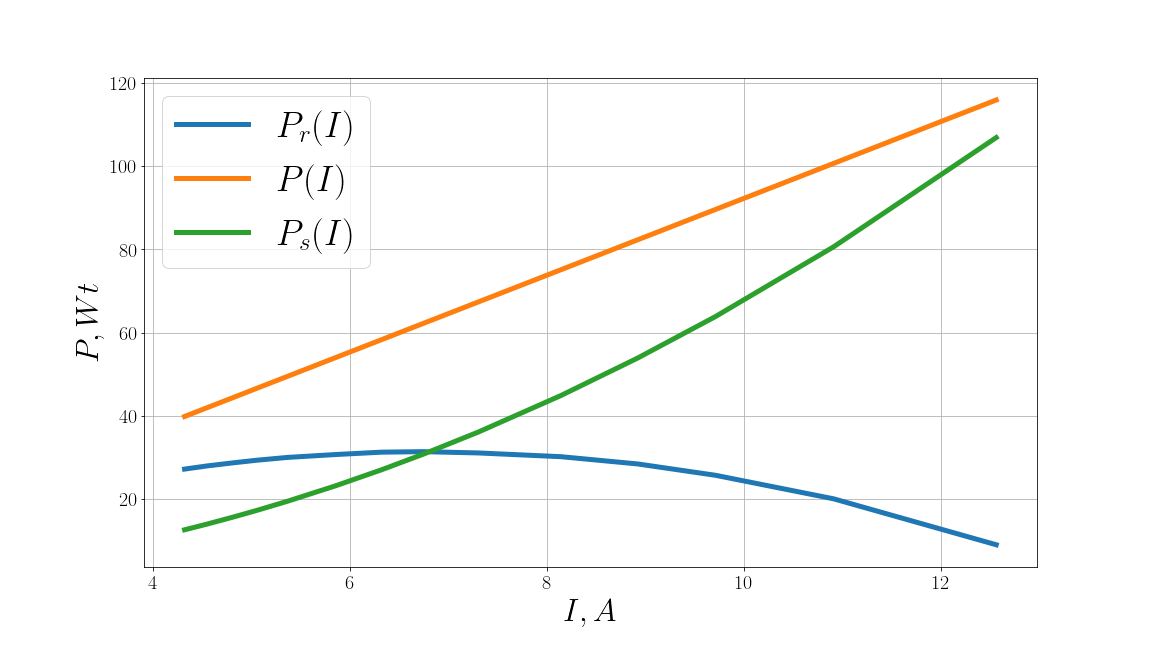
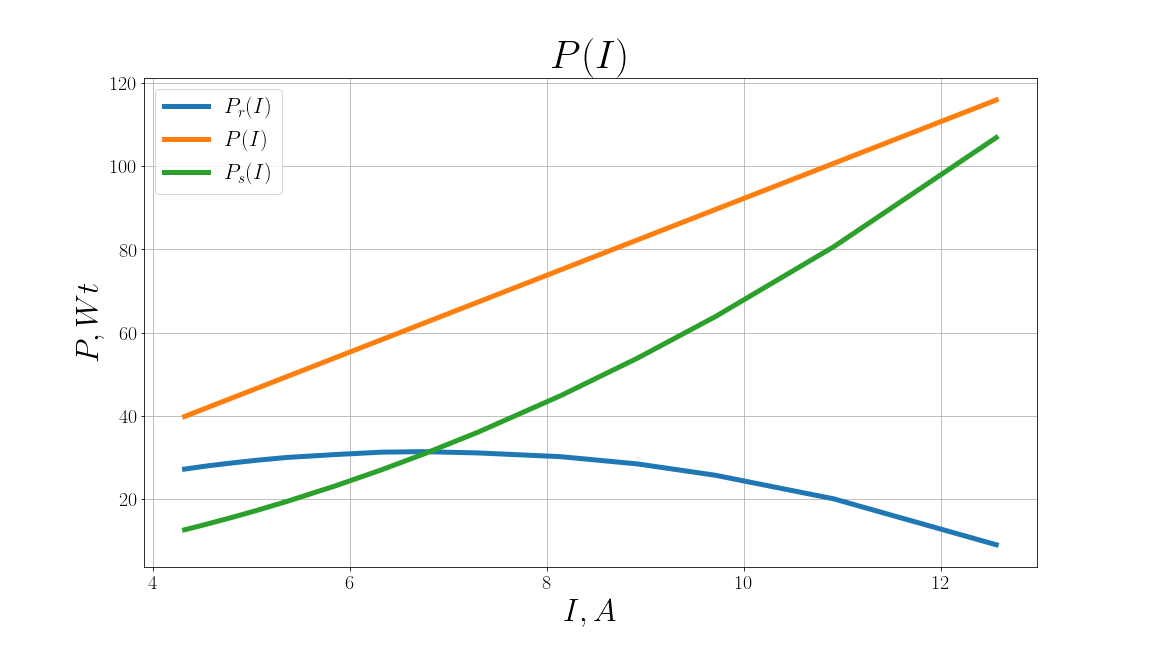
Finish report + add plot titles

diff --git a/report.md b/report.md
@@ -1,6 +1,12 @@
+---
+title: my title
+author: my name
+date: today
+---
+
 # Отчёт по лабораторной работе №3.02
 
-## Характеристики источника тока
+## "Характеристики источника тока"
 
 ### Цель работы
 
@@ -13,16 +19,68 @@
 
 * * *
 
+### Лабораторная установка и проведение измерений
+1. Измерительными приборами в данной лабораторной работе яв-
+ляются амперметр и вольтметр, содержащиеся в блоке АВ1. Ре-
+зистор переменного сопротивления $𝑅 = 0 ÷1,5 \ кОм$.
+1. В качестве источника ЭДС в лабораторной работе использует-
+ся генератор регулируемого постоянного напряжения блока ГН1 с включенным внутренним сопротивлением (пере-
+ключатель $R_{вн}$ должен быть нажат). В этом случае номиналь-
+ное значение внутреннего сопротивления генератора равняется
+$680 \ \Omega ±10 \% $.
+1. Соберите установку.
+2. Соедините гнезда (*) на лицевых панелях амперметра и ге-
+нератора между собой проводником. Среднюю пару контактов
+(обозначены стрелочкой) переменного резистора 𝑅 подключите
+к контакту «$0. . . +15 В$» генератора и к контакту «$U$» вольтметра.
+1. Нижнюю пару контактов переменного резистора R подключите
+к контакту «$I$» амперметра, и к контакту (*) вольтметра.
+1. Перед включением установки внимательно проверьте правиль-
+ность и надежность всех соединений.
+1. На блоке ГН1 регулятор генератора постоянного напряжения
+«$0. . . +15 В$» установите в среднее положение (пятое-шестое де-
+ление шкалы). Кнопочными переключателями блока амперметра-
+вольтметра АВ1 «$J$» и «$I$» установите диапазоны измерений ам-
+перметра: «$20 мА$» и вольтметра: «$20 В$».
+1. Изменяя переменное сопротивление $𝑅$ (от $100 \ \Omega$ до $1500 \ \Omega$)
+с шагом около 100 Ом), проведите измерение зависимости напря-
+жения от силы тока $𝑈 = 𝑈(𝐼)$ и заполните первые две колонки
+Таблицы 1 (см. Приложение).
+1. После проведения измерений выключите генератор и блок АВ1.
+
+* * *
+
 
 ## Обработка измерений
 
 ![График зависимости $U(I)$](https://raw.githubusercontent.com/currantino/physics-3.02/master/plots/U(I).png)
-- С помощью МНК были найдены параметры зависимости $U(I) = -0.073 I + 9.225$, где электродвижущая сила $\mathscr{E}=9.225 \ В$, а внутреннее сопротивление источника $r=|-0.073| \ \Omega =0.073 \ \Omega$
-- Использую результаты измерений напряжения $U$ и силы тока $I$ и вычисленные выше значения $r, \mathscr{E}$ были вычислены значения мощностей:
+- С помощью МНК были найдены параметры зависимости $U(I) = -0.677 I + 9.225$, где электродвижущая сила $\mathscr{E}=9.225 \ В$, а внутреннее сопротивление источника $r=|-0.677| \ \Omega =0.677 \ \Omega$
+- Используя результаты измерений напряжения $U$ и силы тока $I$ и вычисленные выше значения $r, \mathscr{E}$ были вычислены [значения мощностей](#итоговая-таблица):
     - Полезной: $P_r=UI$;
     - Полной: $P=\mathscr{E}I$;
     - Потерь: $P_s=I^2r$.
-  
+
+По вычисленным значениям я построил следующие графики:
+
+![График зависимости $P(I)$](https://raw.githubusercontent.com/currantino/physics-3.02/master/plots/P(I).png)
+
+На графике видно, что полезная мощность достигает максимума $P_{R_{max}}=31.408 \ Вт$ при силе тока $I^*_1=6.740 \ A$.
+
+Подставим в формулу $P_R=I^2R$ значения $P_{R_{max}}$ и $I^*_1$, найдем сопротивление $R$, соответствующее режиму согласования нагрузки и источника: $R=\dfrac{P_{R_{max}}}{I^{*^{2}}_1} = 0.691 \ \Omega$, которое отличается от найденного выше $r=0.691 \ \Omega$ на $|0.677 - 0.691| \ \Omega = 0.14 \ \Omega$
+
+По формуле $\eta(I)=\dfrac{P_r(I)}{P(I)}$ найдем КПД и на основе полученных значений построим график  $\eta(I)$:
+![График зависимости $\eta(I)$](https://raw.githubusercontent.com/currantino/physics-3.02/master/plots/eta(I).png)
+
+На графике видно, что $\eta(I)=0.5$ при $I=I^*_2=6.85 \ A $, что отличается от $I^*_1$ на  $|6.85 - 6.74| = 0.11 \ A$
+
+## Вывод
+- Я исследовал зависимость полной мощности, полезной мощности, мощности потерь, напряжения и КПД от силы тока, что позволило найти значение силы тока   $I^*\approx6.8 \ A$, при котором полезная мощность достигает максимума при данном источнике тока.
+- Из зависимости $U(I)$ я нашел характеристики источника тока: $\mathscr{E}\approx9.225 \ В$ и $r\approx0.691 \ \Omega$
+
+#### *Выполнил: Смородин Матвей Андреевич (336982)*
+
+## Итоговая таблица
+
 | $U, В$      | $I, A$      | $P_r, Вт$   | $P, Вт$     | $P_s, Вт$   |     $\eta$  |
 | ----------- | ----------- | ----------- | ----------- | ----------- | ----------- |
 |0.72	          |12.56	    |9.043	      |115.873	    |106.849      |	0.078       |
@@ -40,14 +98,3 @@
 |6.15|	4.55    |27.982|	41.976|	14.022|	0.667|
 |6.26|	4.38    |27.419|	40.408|	12.994|	0.679|
 |6.30|	4.32    |27.216|	39.855|	12.640|	0.683|  
-
-По вычисленным значениям я построил следующие графики:
-
-![График зависимости $P(I)$](https://raw.githubusercontent.com/currantino/physics-3.02/master/plots/P(I).png)
-
-На графике видно, что полезная мощность $P_r$ достигает максимума при силе тока $I^*_1=6.74 \ A$.
-
-По формуле $\eta(I)=\dfrac{P_r(I)}{P(I)}$ найдем КПД и на основе полученных значений построим график  $\eta(I)$:
-![График зависимости $\eta(I)$](https://raw.githubusercontent.com/currantino/physics-3.02/master/plots/eta(I).png)
-
-На графике видно, что $\eta(I)=0.5$ при $I=I^*_2=6.84 \ A $, что отличается от 
